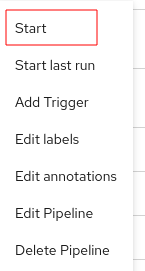
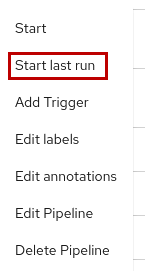
updated README to include a small introduction; Modified images to remove google branding; modified images to reflect selecting of Start Last Run instead of Start

Changed region(s): [[0.0276, 0.0295, 0.7448, 0.2952]]

diff --git a/red-hat-gallery/README.md b/red-hat-gallery/README.md
@@ -1,4 +1,17 @@
 # Red Hat Gallery
+## Overview
+
+This application is a fork of a Google designed demo-shop which is used to demonstrate microservices and the appropriate use of several technologies. This fork uses OpenShift Pipelines (Tekton), Istio, Kiali, Jaeger and other tools in order to create a Red Hat themed shop for demonstration purposes. While no products are actually shipped or sold, this application can be used to walk through several components of a microservices architecture including gathering and analyzing metrics as well as visualizing the data through Grafana.
+
+In order to deploy this project, it is intended that you have:
+
+* An OpenShift 4.7+ cluster
+* Cluster Admin rights on the cluster
+* A host which can reach the routes produced by OpenShift (so you can actually interact with the application)
+* A Backend with dynamic storage (although if you wish to create PVs and the matching PVCs it could be done manually)
+* If you choose to build the containers locally, you will need a few GB of hard drive space to build all of the images yourself
+* At least some experience troubleshooting/administering Kubernetes or OpenShift
+
 
 ## Deployment diagram
 
@@ -387,13 +400,11 @@ If the pipeline fails, you can relaunch it, ensuring that the VolumeClaimTemplat
 
 ![Elypsis](docs/images/pipelines_elypsis.png "Elypsis")
 
-Click the Start button:
+Click the Start Last Run button:
 
 ![Elypsis2](docs/images/pipelines_elypsis_2.png "Elypsis2")
 
-Then finally, under the *Workspaces* drop down, select VolumeClaimTemplate:
-
-![VolumeTemplate](docs/images/pipeline_volumeTemplate.png "VolumeTemplate")
+This should restart the previous Run with the VolumeClaimTemplate that is required to interface with the storage drivers in OpenShift.
 
 The screenshot below shows the failed pipelines due to the Gallery aplication haven't been deployed yet:
 
